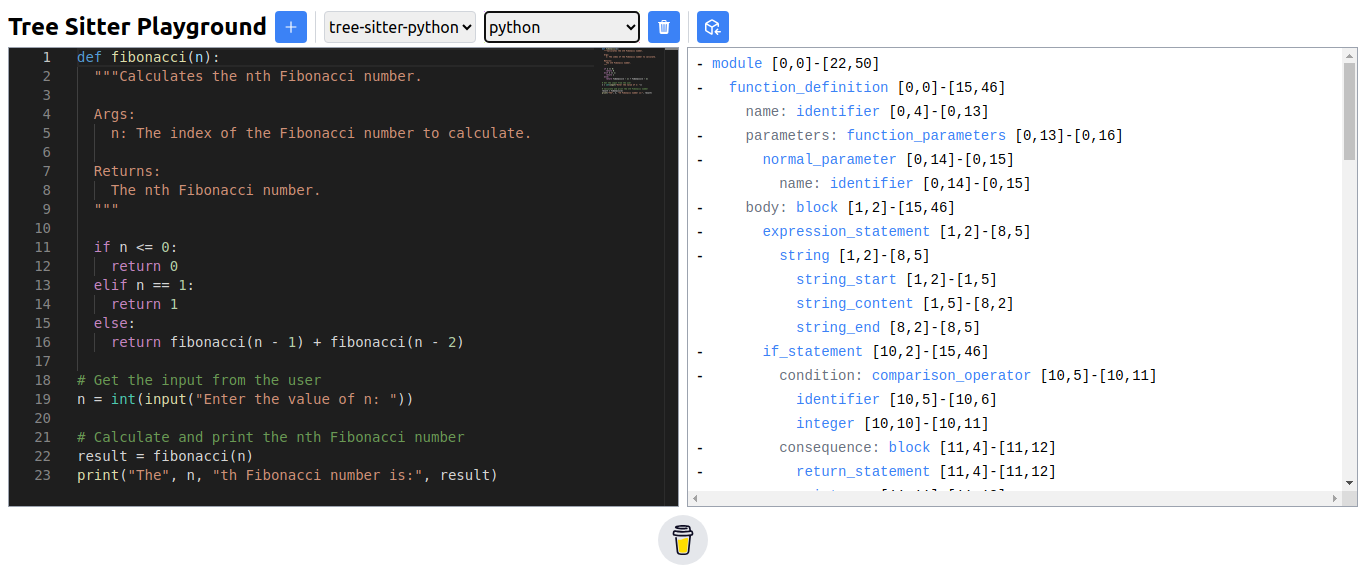
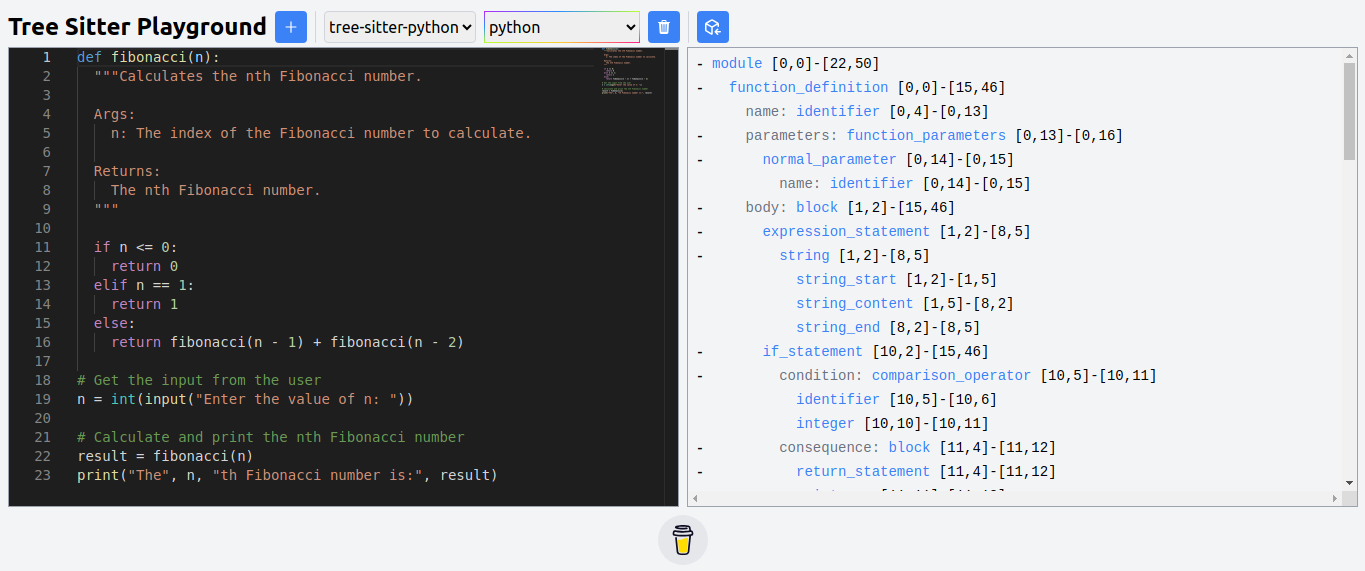
ui: use gray bg color

diff --git a/src/entry-server.tsx b/src/entry-server.tsx
@@ -16,7 +16,7 @@ export default createHandler(() => (
           />
           {assets}
         </head>
-        <body>
+        <body class="bg-gray-100">
           <div id="app">{children}</div>
           {scripts}
         </body>
